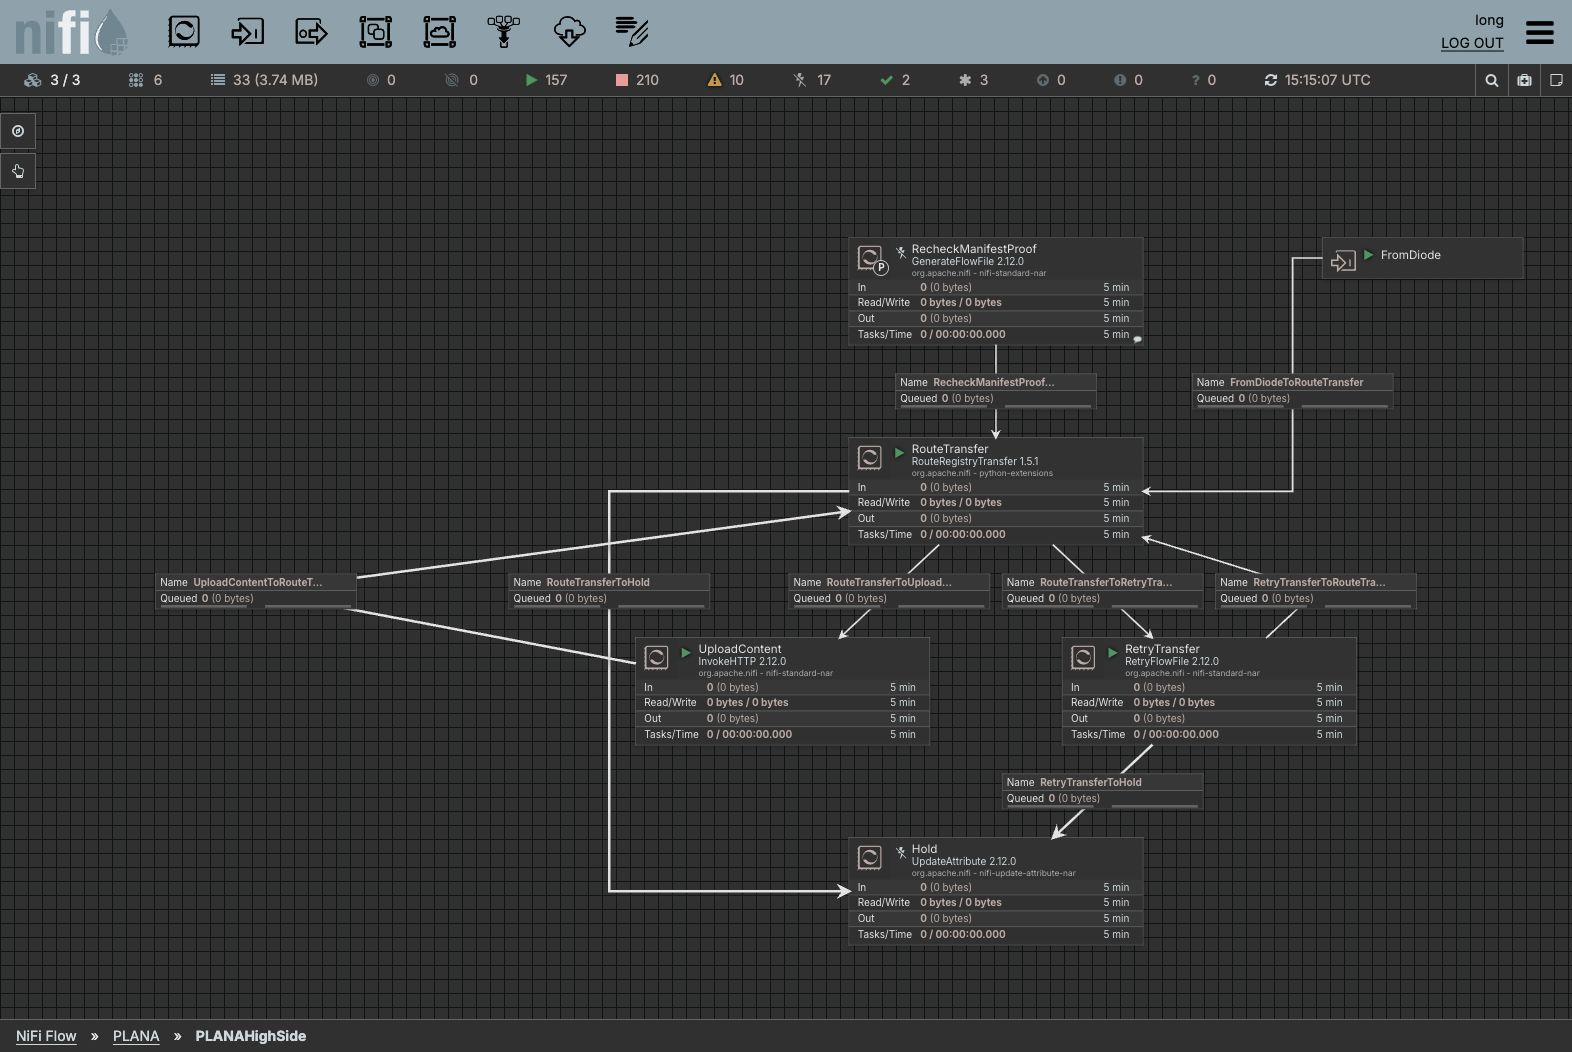
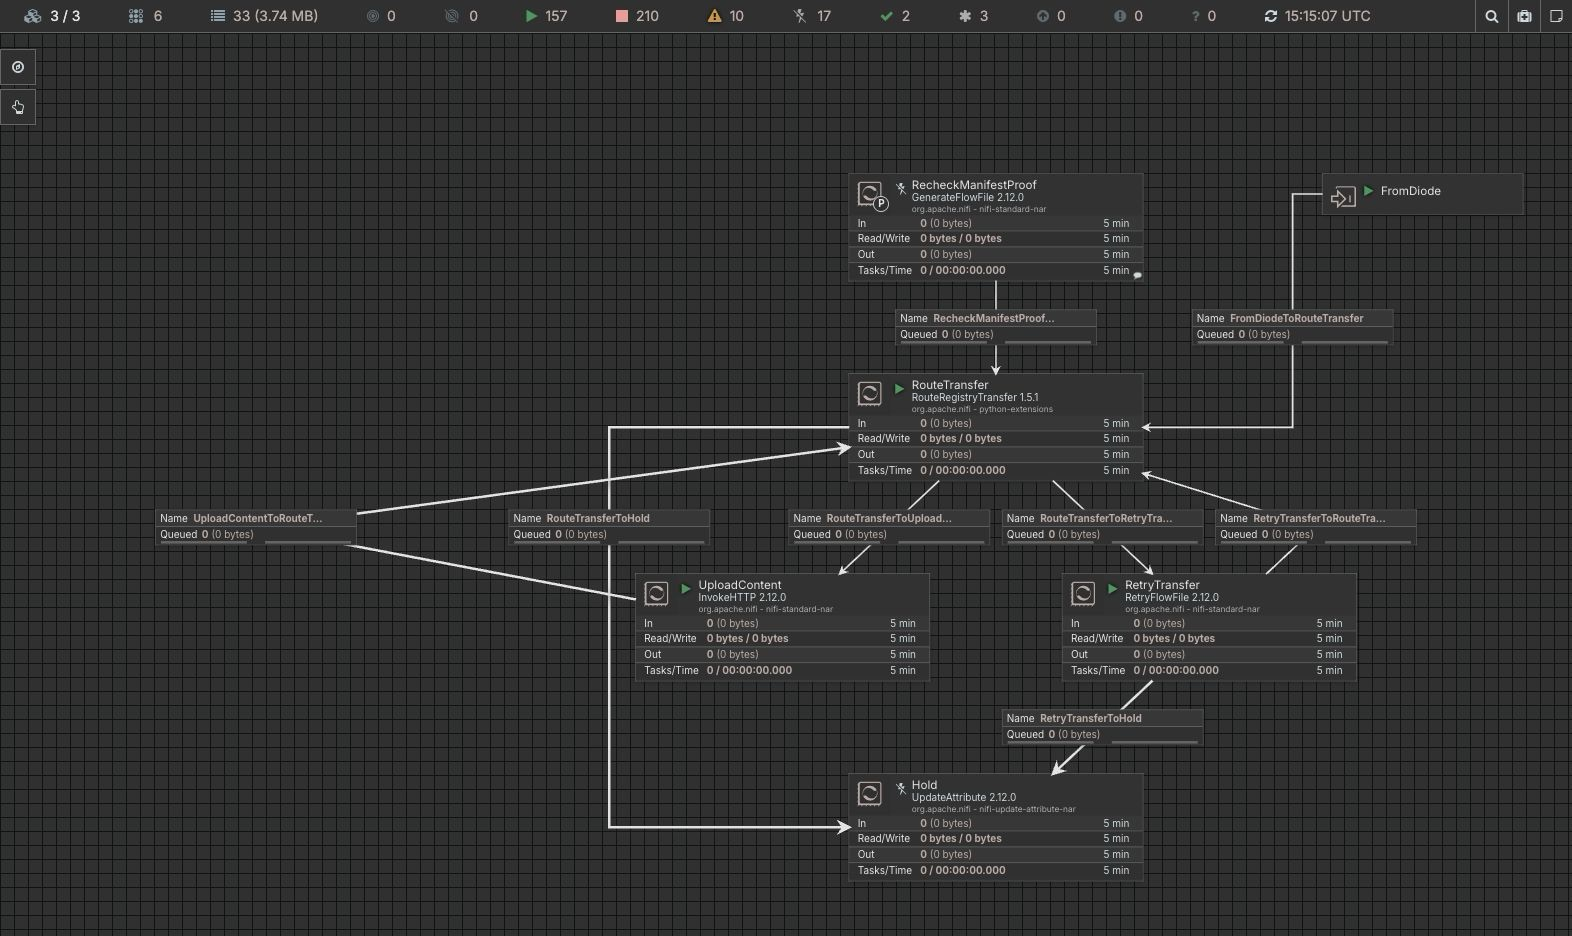
Retake the runbook screenshots and remove account details from images

diff --git a/docs/runbooks/image-transfer-recovery-proof.md b/docs/runbooks/image-transfer-recovery-proof.md
@@ -29,6 +29,8 @@ High rechecked the exact fixture manifest and emitted this real warning while re
 
 > `ci/plana-busybox:replay-proof-20261015 (linux/amd64) incomplete: missing layers 2 of 2. Check code f6d01108`
 
+Recorded example from 2026-10-15, with the account header cropped out.
+
 [![Actual missing-layer bulletin](../images/image-transfer-missing-layer-bulletin.jpg)](../images/image-transfer-missing-layer-bulletin.jpg)
 
 (A GenerateFlowFile starts with none of the webhook's attributes; the dynamic properties it needs, and nothing else, are listed in [the input contract](../reference/contract.md#standing-in-for-the-webhook-with-generateflowfile).) The low stopped GenerateFlowFile had image reference, `registry.layers=2`, `registry.check=f6d01108`, `registry.platform=linux/amd64`, Primary node execution and batch size 1. Run once created exactly **one request**. Low fetched the 337-byte config and the 262,414-byte missing layer; it did not fetch layer 1 for this replay. High uploaded layer 2, skipped the existing config, and then committed the retained manifest by digest and tag. High HEAD/GET became 200, the downloaded blob hash/size matched, and both work/failure canvases drained.
@@ -51,6 +53,8 @@ At **15:09:28 UTC**, the unique layer 2 file was absent from active storage and 
 | High InvokeHTTP SEND manifest tag | 15:10:02.456 | 12759246 | 561 |
 
 At **15:09:46.885 UTC**, high HEAD/GET already returned 200 and the downloaded layer matched both its expected SHA-256 and size. A direct filesystem check confirmed the active blob file had been recreated with those exact bytes, before cleanup touched the manifest association. After the dependency retry, the new manifest job completed too. Both sides finished with zero queued FlowFiles, including zero failures into Hold.
+
+Recorded example from 2026-10-15: the high side canvas as it was during the proof, before the cards and group were renamed and before the Hold card became a disabled LogMessage. The account header and breadcrumb are cropped out.
 
 [![Recovered high side, queues empty](../images/image-transfer-recovered-high-side.jpg)](../images/image-transfer-recovered-high-side.jpg)
 

diff --git a/docs/runbooks/image-transfer-build-by-hand.md b/docs/runbooks/image-transfer-build-by-hand.md
@@ -415,6 +415,8 @@ Set one dynamic property, `registry.image.reference` = `team/app:1.0`, and leave
 
 [![Whole-image resend: one image reference](../images/image-transfer-resend-image-settings.jpg)](../images/image-transfer-resend-image-settings.jpg)
 
+The ResendImage **Properties** tab of the live card. The dialog scrolls: `X-Registry` and `X-Sha256` follow `X-Image-Count`.
+
 1. Keep normal processing running; leave Hold disabled.
 2. If ResendImage is disabled, right-click it and choose **Enable** so it is stopped. Apply the image reference above.
 3. Right-click ResendImage and choose **Run Once**. Do not click Start.
@@ -435,8 +437,6 @@ For bandwidth-sensitive recovery, read the high-side bulletin's image, platform,
 | registry.platform | `linux/amd64` (exact bulletin platform; optional for a single-platform image) |
 
 Enable, apply, Run Once, clear these four properties, then Disable, with Primary node and a batch of one. The planner refuses a stale check code if the tag moved. Selective replay sends the **small config plus the selected layers**, not a manifest and not the other layers. The existing high-side manifest must still be waiting in its retry queue or in `StaleImages`. If it exhausted its retries into Hold, resending layers alone will not commit it: requeue that manifest with its retry counter reset, or use whole-image mode.
-
-[![Selective replay settings from the live proof](../images/image-transfer-replay-layer-settings.jpg)](../images/image-transfer-replay-layer-settings.jpg)
 
 Both modes were verified on the live Quay and NiFi pair, including a whole-image Run Once after the unique layer file was removed from active high-side storage; NiFi recreated it with the exact SHA-256 and size. See [the reproducible evidence and proof boundary](image-transfer-recovery-proof.md). No scheduled resend is supplied; recovery is operator-triggered.
 
